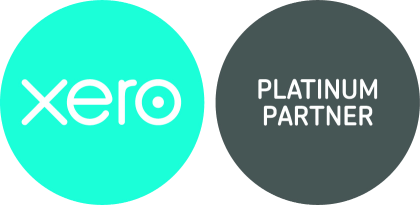
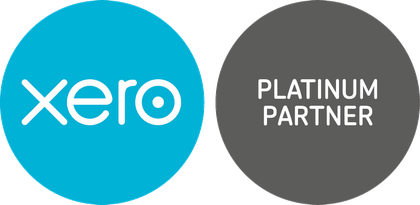
Restore Xero brand colours, crop Jeremy's photo, rebuild the final CTA
Xero logo
- The source JPEG carries an embedded ICC profile. jimp ignored it and returned
  raw RGB, so the transparent PNG shipped with the wrong colours: Xero cyan
  rgb(0,177,213) came out as rgb(27,255,216), a blown-out mint green. Rebuilt
  with sharp, which applies the profile and converts to sRGB. Measured against a
  colour-managed decode of the original: cyan is now rgb(0,178,213). The
  flood-filled transparency is unchanged.

Jeremy's photo
- The width/height attributes added earlier for CLS gave the img a 1080px
  presentational height, which overrode aspect-ratio: the photo rendered 1086px
  tall next to a 656px text column, leaving a large void. height:auto restores
  the ratio, and a 4/5 crop with the face anchored removes the empty lower third.
  Section height 1086 -> 656px.

Final CTA
- Rebuilt the left column on the reference layout: letterspaced eyebrow, two-tone
  display headline (white lead over an ink emphasis line), supporting line, then
  rule-separated meta rows with a live seat marker, closing statement and note.
  Ink carries the emphasis rather than a third colour, keeping the section to the
  two brand colours.

diff --git a/page.css b/page.css
@@ -217,7 +217,11 @@ a[href="#register"]{white-space:nowrap}
 /* jeremy */
 .jgrid{display:grid;grid-template-columns:.82fr 1.18fr;gap:64px;align-items:start}
 .jphoto{border:3px solid var(--ink);box-shadow:12px 12px 0 var(--ckp-crimson);background:var(--gray-100)}
-.jphoto img{width:100%;aspect-ratio:719/1080;object-fit:cover}
+/* height:auto is required — the height="1080" attribute (there for CLS) otherwise
+   acts as a presentational height and the aspect-ratio never applies.
+   4/5 crops the empty lower third of the frame so the photo finishes level with
+   the credentials beside it; object-position keeps the face anchored. */
+.jphoto img{width:100%;height:auto;aspect-ratio:4/5;object-fit:cover;object-position:50% 12%}
 .jname{font-family:'Archivo Black',system-ui,sans-serif;font-size:30px;letter-spacing:-.03em;text-transform:uppercase;color:var(--ink);margin:0;line-height:1}
 .jrole{font-size:14px;font-weight:600;letter-spacing:.06em;text-transform:uppercase;color:var(--ckp-crimson);margin:8px 0 0}
 .creds{list-style:none;margin:0;padding:0;border-top:1px solid var(--gray-200)}
@@ -254,6 +258,22 @@ a[href="#register"]{white-space:nowrap}
 /* final */
 .final{background:var(--ckp-crimson);border-top:3px solid var(--ink);border-bottom:3px solid var(--ink)}
 .final-grid{display:grid;grid-template-columns:1.05fr .95fr;gap:72px;align-items:start}
+/* left column: eyebrow, two-tone display headline, supporting line, rule-separated
+   meta rows. Ink carries the emphasis half of the headline — on crimson it reads
+   harder than white and keeps the section to the two brand colours. */
+.final-left{display:flex;flex-direction:column;align-items:flex-start;gap:24px}
+.final-eyebrow{font-family:'Archivo Black',system-ui,sans-serif;font-size:12px;letter-spacing:.18em;text-transform:uppercase;color:var(--ink);line-height:1.3}
+.final-h2{margin:0;display:flex;flex-direction:column;gap:4px;text-transform:uppercase}
+.fh-a{color:#fff;font-size:clamp(22px,2.3vw,32px);line-height:1.04;letter-spacing:-.03em;max-width:20ch}
+.fh-b{color:var(--ink);font-size:clamp(34px,4.2vw,60px);line-height:.94;letter-spacing:-.04em;max-width:14ch}
+.final-lede{margin:0;max-width:44ch;font-size:clamp(16.5px,1.5vw,18.5px);line-height:1.55;color:rgba(255,255,255,.9)}
+.final-meta{display:flex;flex-wrap:wrap;align-items:center;gap:8px 0}
+.final-meta span{font-size:13.5px;font-weight:600;color:#fff;padding:0 16px;border-left:1px solid rgba(255,255,255,.4);line-height:1.25;white-space:nowrap}
+.final-meta span:first-child{padding-left:0;border-left:0}
+.fm-live{display:flex;align-items:center;gap:9px}
+.fm-live i{width:8px;height:8px;background:var(--ink);flex:none}
+.final-note{margin:0;font-family:'Archivo Black',system-ui,sans-serif;font-size:clamp(17px,1.7vw,22px);line-height:1.3;letter-spacing:-.025em;color:#fff;max-width:24ch}
+.final-small{margin:0;max-width:46ch;font-size:15px;line-height:1.6;color:rgba(255,255,255,.82)}
 .final-line{display:flex;flex-wrap:wrap;gap:0 18px;align-items:center;border-top:2px solid rgba(255,255,255,.4);border-bottom:2px solid rgba(255,255,255,.4);padding:16px 0;margin-top:36px}
 .final-line span{font-size:14px;font-weight:600;color:#fff;display:flex;align-items:center;gap:18px;white-space:nowrap}
 .final-line span:not(:last-child):after{content:'';width:5px;height:5px;background:var(--ink)}

diff --git a/parts-2.jsx b/parts-2.jsx
@@ -127,18 +127,29 @@ function SectionFive() {
 }
 
 function FinalCTA({ onDone }) {
+  const left = Math.max(0, CFG.seatsTotal - CFG.seatsTaken);
   return (
     <section className="final sec" id="register-2-anchor">
       <div className="wrap final-grid">
-        <div className="stack-24">
-          <span className="eyebrow eyebrow-block" style={{ alignSelf: 'flex-start' }}>Last step</span>
-          <h2 className="disp h2 on-dark" style={{ fontSize: 'clamp(30px,3.1vw,46px)', maxWidth: '17ch' }}><span className="lead">Your company may already be fine.</span>You deserve to know, not assume.</h2>
-          <p className="lede muted-on-crimson measure">Swap “I think everything should be okay” for knowing. Your structure, your deadlines, your payroll, your books.</p>
-          <p className="body" style={{ color: '#fff', fontWeight: 600 }}>60 minutes now, or an unknown bill later. That is the whole trade.</p>
-          <div className="final-line">
-            {['Free', '8 September 2026', CFG.time, 'Online', '40 seats', '20 private review slots'].map((t) => <span key={t}>{t}</span>)}
+        <div className="final-left">
+          <span className="final-eyebrow">Still unsure this is for you?</span>
+          <h2 className="disp final-h2">
+            <span className="fh-a">Your company may already be fine.</span>
+            <span className="fh-b">You deserve to know, not assume.</span>
+          </h2>
+          <p className="final-lede">Swap “I think everything should be okay” for knowing. Your structure, your deadlines, your payroll, your books.</p>
+          <div className="final-meta">
+            <span>Free</span>
+            <span>8 September 2026</span>
+            <span>{CFG.time}</span>
+            <span>Online</span>
           </div>
-          <p className="body muted-on-crimson measure-sm" style={{ fontSize: 16 }}>Built for owners and directors. Bring the person who handles your books, payroll or compliance if you want everyone aligned.</p>
+          <div className="final-meta">
+            <span className="fm-live"><i />{left} of {CFG.seatsTotal} seats left</span>
+            <span>20 private review slots</span>
+          </div>
+          <p className="final-note">60 minutes now, or an unknown bill later. That is the whole trade.</p>
+          <p className="final-small">Built for owners and directors. Bring whoever handles your books, payroll or compliance if you want everyone aligned.</p>
         </div>
         <RegistrationForm id="register-2" onDone={onDone} />
       </div>
